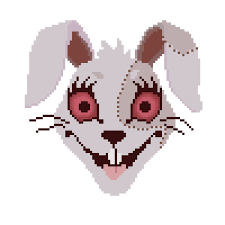
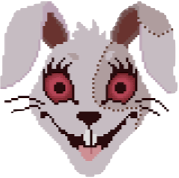
altered the pixel art, and changed background colour

diff --git a/styles/main.css b/styles/main.css
@@ -106,13 +106,13 @@ button {
 }
 .grid div {
   border: 1px greenyellow solid;
-  background-color: white;
+  /* background-color: white; */
   flex-grow: 1;
   height: 10%;
   width: 9%;
 }
 .grid div.frog {
-  background-image: url(../images/frog.webp);
+  background-image: url(../images/frog.png);
   background-size: contain;
   background-repeat: no-repeat;
 }
@@ -132,7 +132,7 @@ button {
   background-size: contain;
 }
 .grid div.goal {
-  background-image: url(../images/money.jpeg);
+  background-image: url(../images/money.png);
   background-repeat: no-repeat;
   background-size: contain;
 }
@@ -142,7 +142,7 @@ button {
   background-size: contain;
 }
 .grid div.doll {
-  background-image: url(../images/squid_doll.jpeg);
+  background-image: url(../images/squid_doll.png);
   background-size: contain;
   background-repeat: no-repeat;
 }

diff --git a/scripts/app.js b/scripts/app.js
@@ -24,7 +24,6 @@ function init() {
   let goalPosition;
   let lives = 2;
   numberOfLives.textContent = lives;
-
   const width = 10;
   const cellCount = width * width;
 
@@ -237,7 +236,8 @@ function init() {
   }
 
   function stopGame() {
-    grid.style.display = "none";
+    grid.classList.remove("grid");
+    // grid.style.display = "none";
     changeableInfo.style.display = "none";
     audioElement.pause();
     musicCountdown.pause();
@@ -273,6 +273,7 @@ function init() {
 
   function reloadPage() {
     window.location.reload();
+    // change this one!
   }
 
   logoMusic.addEventListener("click", homeMusic);
